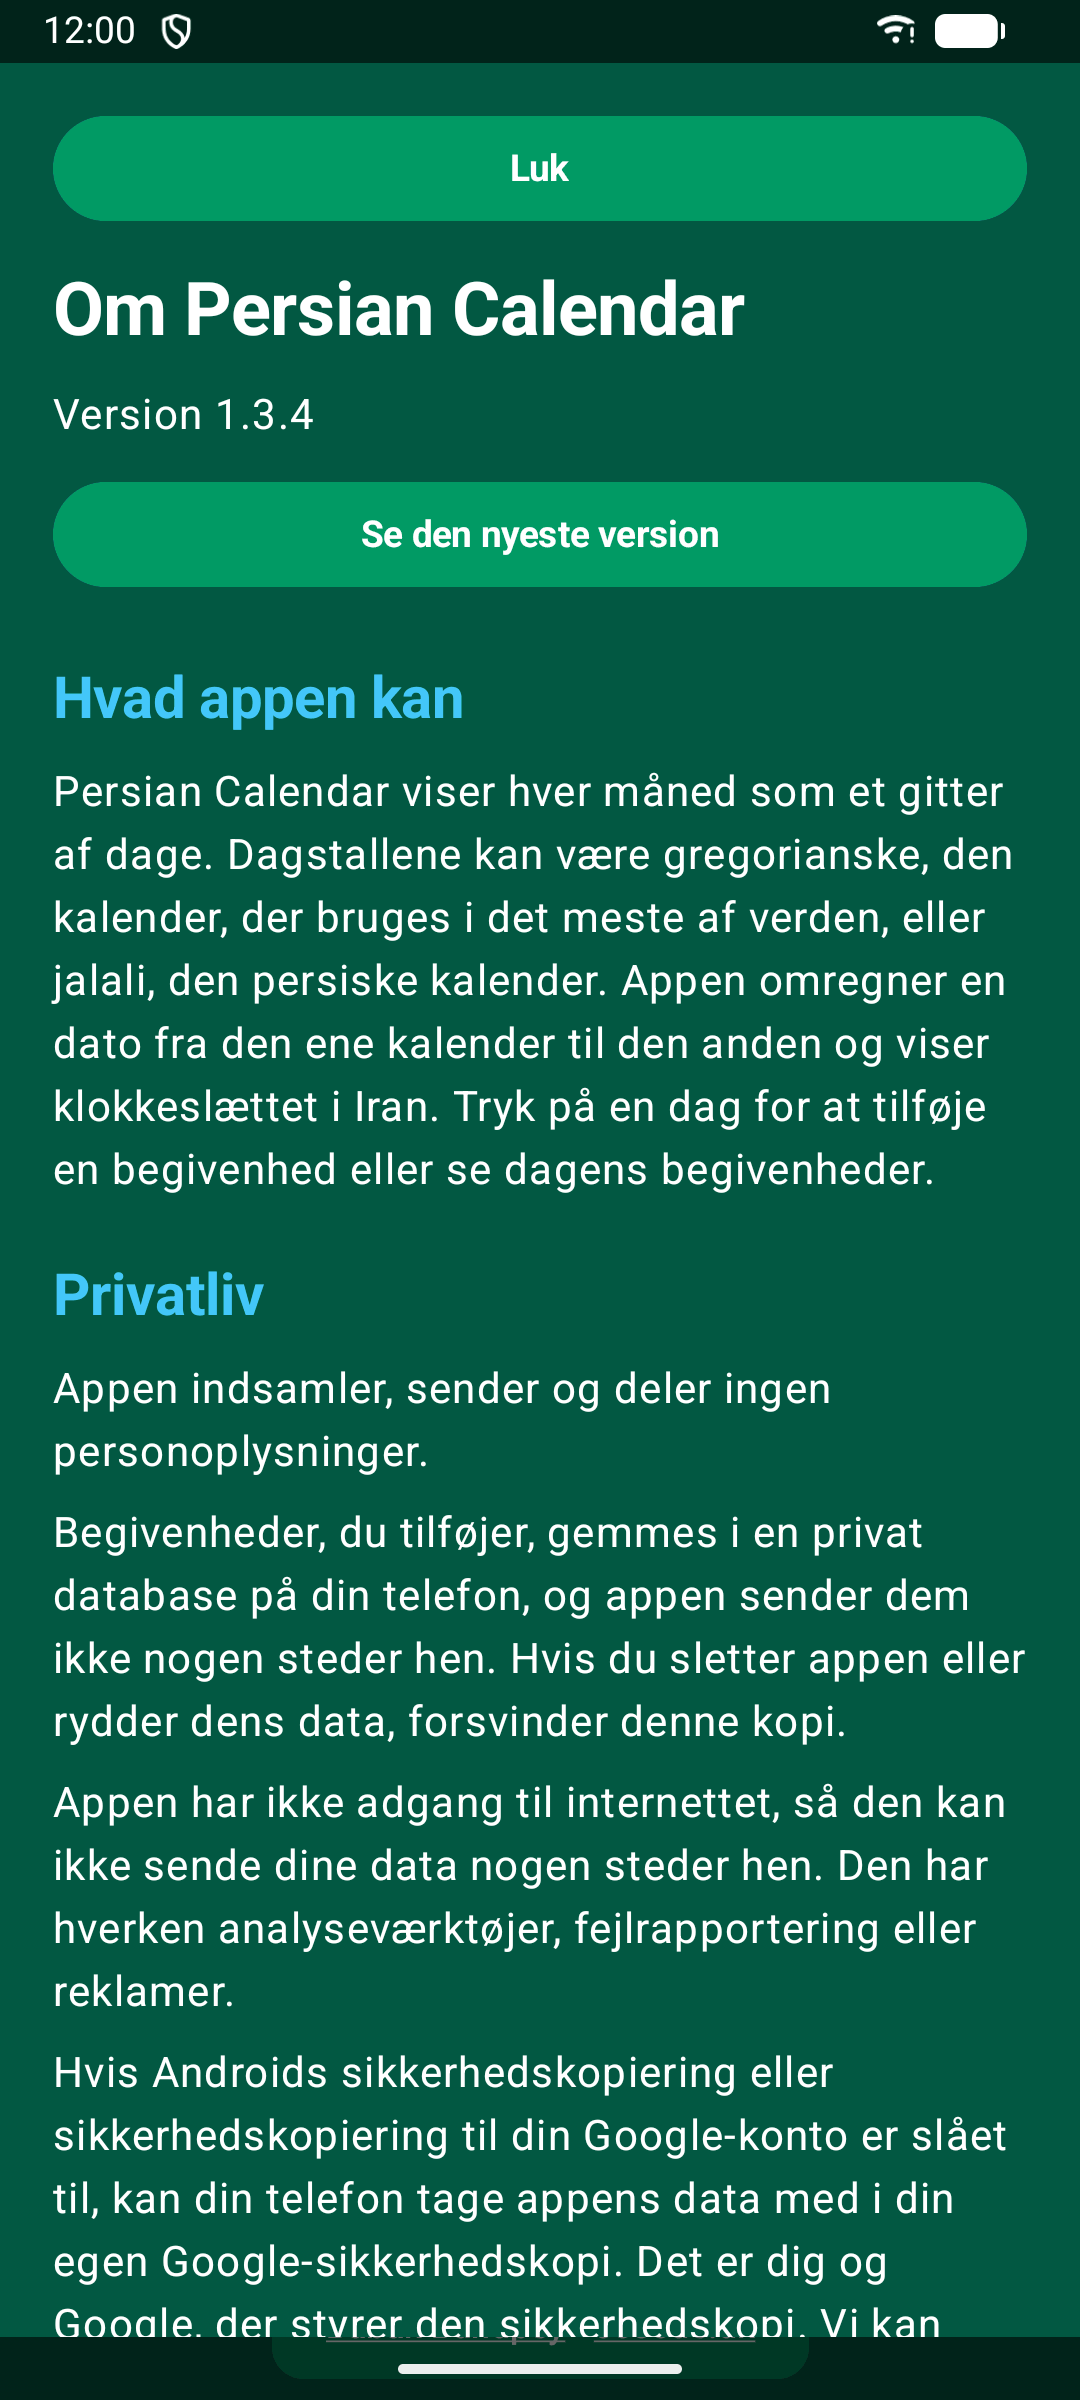
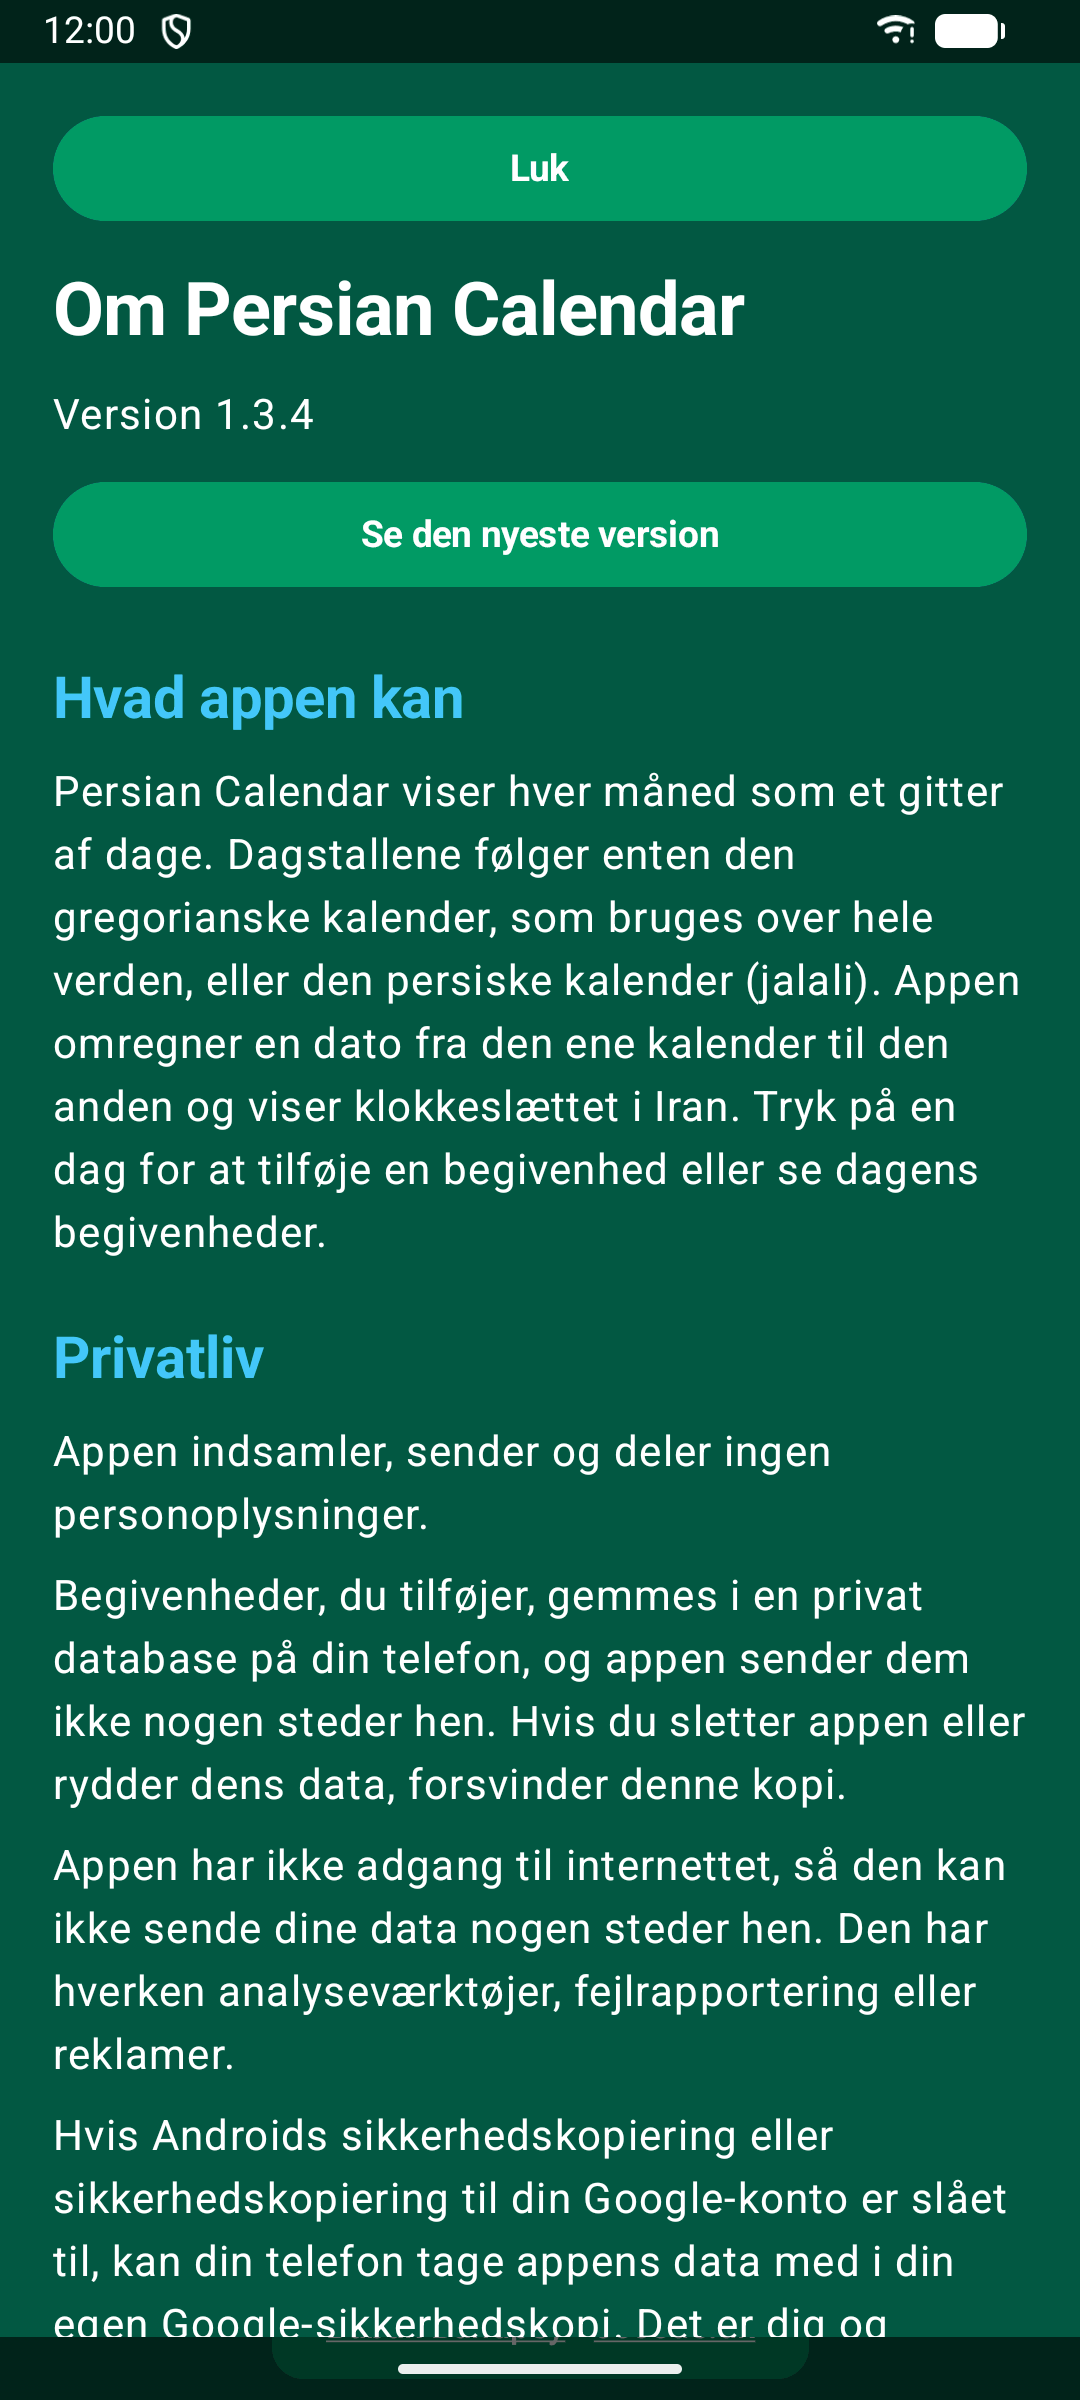
fix: the site's calendar preview matches the app, and three Danish sentences read naturally
- The hero card shows a Sunday-first Gregorian month in six rows, as the app draws it
  (CalendarGrid.kt), not a Saturday-first Jalali month; hero-calendar.js builds the same grid for today in Tehran
- Danish About text, site card and privacy page: the day-number sentence and the external-links sentence rewritten
- da-DK screenshot 2 retaken from this build (the About text changed)

Claude-Session: https://claude.ai/code/session_01EduxjKmfMFTAd8K553rQMR

Changed region(s): [[0.0306, 0.3438, 0.9472, 1.0]]

diff --git a/docs/hero-calendar.js b/docs/hero-calendar.js
@@ -1,40 +1,31 @@
-/* The hero's calendar card shows the real Jalali month in Tehran, with today marked.
-   The static month in the HTML stays as the fallback when this does not run. The browser's own
-   Persian calendar (Intl, ca-persian) does the conversion, so there is no date maths to get wrong. */
+/* The hero's calendar card shows the current month with today marked, laid out the way the app draws
+   it: a Gregorian month in six rows of seven days, weeks starting on Sunday. "Today" is the date in
+   Tehran, where the page shows the time. The static month in the HTML stays as the fallback when this
+   does not run. The browser's own Intl does the date work, so there is no date maths to get wrong. */
 (function () {
   'use strict';
   var card = document.querySelector('.calendar-card');
   if (!card || !window.Intl) return;
 
-  var DAY = 864e5;
-  var fmt = new Intl.DateTimeFormat('en-US-u-ca-persian', {
-    timeZone: 'Asia/Tehran', year: 'numeric', month: 'long', day: 'numeric', weekday: 'short'
-  });
-  function parts(t) {
-    var p = {};
-    fmt.formatToParts(new Date(t)).forEach(function (x) { p[x.type] = x.value; });
-    return { y: parseInt(p.year, 10), m: p.month, d: parseInt(p.day, 10), wd: p.weekday };
-  }
+  var iso = new Intl.DateTimeFormat('en-CA', {
+    timeZone: 'Asia/Tehran', year: 'numeric', month: '2-digit', day: '2-digit'
+  }).format(new Date());
+  var m = /^(\d{4})-(\d{2})-(\d{2})$/.exec(iso);
+  if (!m) return;
+  var year = +m[1], month = +m[2] - 1, today = +m[3];
 
-  var now = Date.now();
-  var today = parts(now);
-  if (!today.y || !today.d) return;
-  var first = now - (today.d - 1) * DAY;
-  /* The Iranian week starts on Saturday; Friday is the weekend. */
-  var ORDER = ['Sat', 'Sun', 'Mon', 'Tue', 'Wed', 'Thu', 'Fri'];
-  var lead = ORDER.indexOf(parts(first).wd);
-  if (lead < 0) return;
-
+  /* Six weeks, as in the app: the days before the 1st and after the last day are shown dimmed. */
+  var lead = new Date(Date.UTC(year, month, 1)).getUTCDay();
   var cells = [];
-  for (var i = lead; i > 0; i--) cells.push({ d: parts(first - i * DAY).d, cls: 'muted' });
-  for (var t = first; parts(t).m === today.m; t += DAY) {
-    var p = parts(t);
-    cells.push({ d: p.d, cls: p.d === today.d ? 'today' : (p.wd === 'Fri' ? 'weekend' : '') });
+  for (var i = 0; i < 42; i++) {
+    var day = new Date(Date.UTC(year, month, 1 - lead + i));
+    var cls = day.getUTCMonth() !== month ? 'muted' : (day.getUTCDate() === today ? 'today' : '');
+    cells.push({ d: day.getUTCDate(), cls: cls });
   }
-  for (var n = 1; cells.length % 7; n++) cells.push({ d: n, cls: 'muted' });
 
   var grid = card.querySelector('.grid');
   var label = card.querySelector('.month span');
+  if (!grid || !label) return;
   var head = [].slice.call(grid.children, 0, 7);
   grid.replaceChildren.apply(grid, head.concat(cells.map(function (c) {
     var s = document.createElement('span');
@@ -43,5 +34,7 @@
     s.textContent = c.d;
     return s;
   })));
-  label.textContent = today.m + ' ' + today.y;
+  label.textContent = new Intl.DateTimeFormat(document.documentElement.lang || 'en', {
+    timeZone: 'UTC', year: 'numeric', month: 'long'
+  }).format(new Date(Date.UTC(year, month, 1)));
 })();

diff --git a/docs/da/index.html b/docs/da/index.html
@@ -384,16 +384,17 @@
           </div>
           <div class="calendar-card">
             <div class="month">
-              <span>Farvardin 1403</span>
-              <span class="pill">Jalali</span>
+              <span>oktober 2026</span>
+              <span class="pill">Gregoriansk</span>
             </div>
             <div class="grid">
-              <span>Lø</span><span>Sø</span><span>Ma</span><span>Ti</span><span>On</span><span>To</span><span>Fr</span>
-              <span class="muted">26</span><span class="muted">27</span><span class="muted">28</span><span class="muted">29</span><span>1</span><span>2</span><span class="weekend">3</span>
-              <span>4</span><span>5</span><span>6</span><span>7</span><span>8</span><span class="today">9</span><span class="weekend">10</span>
-              <span>11</span><span>12</span><span>13</span><span>14</span><span>15</span><span>16</span><span class="weekend">17</span>
-              <span>18</span><span>19</span><span>20</span><span>21</span><span>22</span><span>23</span><span class="weekend">24</span>
-              <span>25</span><span>26</span><span>27</span><span>28</span><span>29</span><span>30</span><span class="weekend">31</span>
+              <span class="weekend">Sø</span><span>Ma</span><span>Ti</span><span>On</span><span>To</span><span>Fr</span><span class="weekend">Lø</span>
+              <span class="muted">27</span><span class="muted">28</span><span class="muted">29</span><span class="muted">30</span><span>1</span><span>2</span><span>3</span>
+              <span>4</span><span>5</span><span>6</span><span class="today">7</span><span>8</span><span>9</span><span>10</span>
+              <span>11</span><span>12</span><span>13</span><span>14</span><span>15</span><span>16</span><span>17</span>
+              <span>18</span><span>19</span><span>20</span><span>21</span><span>22</span><span>23</span><span>24</span>
+              <span>25</span><span>26</span><span>27</span><span>28</span><span>29</span><span>30</span><span>31</span>
+              <span class="muted">1</span><span class="muted">2</span><span class="muted">3</span><span class="muted">4</span><span class="muted">5</span><span class="muted">6</span><span class="muted">7</span>
             </div>
           </div>
         </div>
@@ -409,7 +410,7 @@
           <div class="card reveal" data-reveal>
             <div class="icon">01</div>
             <h3>Kalendervisning</h3>
-            <p>Vis gregorianske eller jalali dagstal på samme måned. Dine begivenheder bliver, hvor de er.</p>
+            <p>Vis gregorianske dagstal eller jalali-dagstal i samme månedsvisning. Dine begivenheder bliver, hvor de er.</p>
           </div>
           <div class="card reveal" data-reveal>
             <div class="icon">02</div>

diff --git a/docs/index.html b/docs/index.html
@@ -384,16 +384,17 @@
           </div>
           <div class="calendar-card">
             <div class="month">
-              <span>Farvardin 1403</span>
-              <span class="pill">Jalali</span>
+              <span>October 2026</span>
+              <span class="pill">Gregorian</span>
             </div>
             <div class="grid">
-              <span>Sa</span><span>Su</span><span>Mo</span><span>Tu</span><span>We</span><span>Th</span><span>Fr</span>
-              <span class="muted">26</span><span class="muted">27</span><span class="muted">28</span><span class="muted">29</span><span>1</span><span>2</span><span class="weekend">3</span>
-              <span>4</span><span>5</span><span>6</span><span>7</span><span>8</span><span class="today">9</span><span class="weekend">10</span>
-              <span>11</span><span>12</span><span>13</span><span>14</span><span>15</span><span>16</span><span class="weekend">17</span>
-              <span>18</span><span>19</span><span>20</span><span>21</span><span>22</span><span>23</span><span class="weekend">24</span>
-              <span>25</span><span>26</span><span>27</span><span>28</span><span>29</span><span>30</span><span class="weekend">31</span>
+              <span class="weekend">Su</span><span>Mo</span><span>Tu</span><span>We</span><span>Th</span><span>Fr</span><span class="weekend">Sa</span>
+              <span class="muted">27</span><span class="muted">28</span><span class="muted">29</span><span class="muted">30</span><span>1</span><span>2</span><span>3</span>
+              <span>4</span><span>5</span><span>6</span><span class="today">7</span><span>8</span><span>9</span><span>10</span>
+              <span>11</span><span>12</span><span>13</span><span>14</span><span>15</span><span>16</span><span>17</span>
+              <span>18</span><span>19</span><span>20</span><span>21</span><span>22</span><span>23</span><span>24</span>
+              <span>25</span><span>26</span><span>27</span><span>28</span><span>29</span><span>30</span><span>31</span>
+              <span class="muted">1</span><span class="muted">2</span><span class="muted">3</span><span class="muted">4</span><span class="muted">5</span><span class="muted">6</span><span class="muted">7</span>
             </div>
           </div>
         </div>

diff --git a/docs/da/privacy/index.html b/docs/da/privacy/index.html
@@ -109,10 +109,10 @@
         <a href="https://policies.google.com/privacy" rel="noopener" target="_blank">Googles privatlivspolitik</a>.</p>
 
         <h2>Eksterne links</h2>
-        <p>Appen har knapper og links, der åbner websider: på skærmen Om appen hjemmesiden, privatlivspolitikken, kildekoden,
-        siden til at melde fejl, siden med den nyeste version og
-        <a href="https://cocode.dk" rel="noopener" target="_blank">cocode.dk</a>, og udviklerens LinkedIn-profil nederst på
-        hovedskærmen. Appen giver kun adressen videre til din browser, når du trykker på en af dem. Selve appen opretter
+        <p>Appen har knapper og links, der åbner websider. Via knappen »Om appen« kan du åbne hjemmesiden, privatlivspolitikken,
+        kildekoden, siden til at melde en fejl, siden med den nyeste version og
+        <a href="https://cocode.dk" rel="noopener" target="_blank">cocode.dk</a>. Nederst på hovedskærmen er der desuden et
+        link til udviklerens LinkedIn-profil. Appen giver kun adressen videre til din browser, når du trykker på en af dem. Selve appen opretter
         ingen forbindelse og lægger ingen oplysninger om dig til adressen. De websteder har deres egne privatlivspolitikker.</p>
 
         <h2>Børn</h2>
